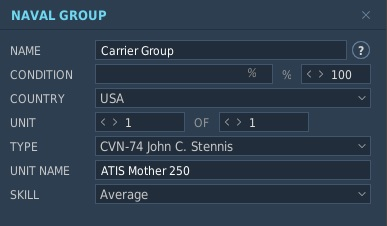
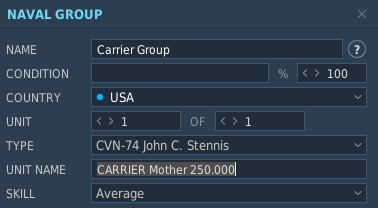
update carrier reports to require CARRIER prefix

diff --git a/crates/datis-module/src/mission.rs b/crates/datis-module/src/mission.rs
@@ -89,7 +89,7 @@ pub fn extract(mut lua: Lua<'static>) -> Result<Info, anyhow::Error> {
         let mut get_mission_description: LuaFunction<_> = get!(dcs, "getMissionDescription")?;
         let mission_situation: String = get_mission_description.call()?;
 
-        extract_frequencies(&mission_situation)
+        extract_atis_station_frequencies(&mission_situation)
     };
 
     // collect all airfields on the current loaded terrain
@@ -304,7 +304,7 @@ pub fn extract(mut lua: Lua<'static>) -> Result<Info, anyhow::Error> {
     // check all units if they represent and ATIS station and if so, combine them with
     // their corresponding airfield
     stations.extend(mission_units.iter().filter_map(|mission_unit| {
-        extract_station_config(&mission_unit.name).and_then(|config| {
+        extract_atis_station_config(&mission_unit.name).and_then(|config| {
             airfields.remove(&config.name).map(|mut airfield| {
                 airfield.traffic_freq = config.traffic;
                 airfield.position.x = mission_unit.x;
@@ -332,45 +332,78 @@ pub fn extract(mut lua: Lua<'static>) -> Result<Info, anyhow::Error> {
         }
     };
 
-    stations.extend(mission_units.iter().filter_map(|mission_unit| {
-        extract_station_config(&mission_unit.name).map(|config| Station {
-            name: config.name.clone(),
-            freq: config.atis,
-            tts: config.tts.unwrap_or_else(|| default_voice.clone()),
-            transmitter: Transmitter::Carrier(Carrier {
-                name: config.name,
-                unit_id: mission_unit.id,
-                unit_name: mission_unit.name.clone(),
-            }),
-            rpc: Some(rpc.clone()),
-        })
-    }));
-
-    stations.extend(mission_units.iter().filter_map(|mission_unit| {
-        extract_custom_broadcast_config(&mission_unit.name).map(|config| Station {
-            name: mission_unit.name.clone(),
-            freq: config.freq,
-            tts: config.tts.unwrap_or_else(|| default_voice.clone()),
-            transmitter: Transmitter::Custom(Custom {
-                unit_id: mission_unit.id,
-                unit_name: mission_unit.name.clone(),
-                message: config.message,
-            }),
-            rpc: Some(rpc.clone()),
-        })
-    }));
-
-    debug!("Valid ATIS Stations:");
-    for station in &stations {
-        debug!(
-            "  - {} (Freq: {}, Voice: {:?})",
-            station.name, station.freq, station.tts
-        );
-    }
-
     if stations.is_empty() {
-        warn!("No ATIS stations found ...");
+        info!("No ATIS stations found ...");
+    } else {
+        info!("ATIS Stations:");
+        for station in &stations {
+            info!(
+                "  - {} (Freq: {}, Voice: {:?})",
+                station.name, station.freq, station.tts
+            );
+        }
     }
+
+    let carriers = mission_units
+        .iter()
+        .filter_map(|mission_unit| {
+            extract_carrier_station_config(&mission_unit.name).map(|config| Station {
+                name: config.name.clone(),
+                freq: config.atis,
+                tts: config.tts.unwrap_or_else(|| default_voice.clone()),
+                transmitter: Transmitter::Carrier(Carrier {
+                    name: config.name,
+                    unit_id: mission_unit.id,
+                    unit_name: mission_unit.name.clone(),
+                }),
+                rpc: Some(rpc.clone()),
+            })
+        })
+        .collect::<Vec<_>>();
+
+    if carriers.is_empty() {
+        info!("No Carrier stations found ...");
+    } else {
+        info!("Carrier Stations:");
+        for station in &carriers {
+            info!(
+                "  - {} (Freq: {}, Voice: {:?})",
+                station.name, station.freq, station.tts
+            );
+        }
+    }
+
+    let broadcasts = mission_units
+        .iter()
+        .filter_map(|mission_unit| {
+            extract_custom_broadcast_config(&mission_unit.name).map(|config| Station {
+                name: mission_unit.name.clone(),
+                freq: config.freq,
+                tts: config.tts.unwrap_or_else(|| default_voice.clone()),
+                transmitter: Transmitter::Custom(Custom {
+                    unit_id: mission_unit.id,
+                    unit_name: mission_unit.name.clone(),
+                    message: config.message,
+                }),
+                rpc: Some(rpc.clone()),
+            })
+        })
+        .collect::<Vec<_>>();
+
+    if broadcasts.is_empty() {
+        info!("No custom Broadcast stations found ...");
+    } else {
+        info!("Broadcast Stations:");
+        for station in &broadcasts {
+            info!(
+                "  - {} (Freq: {}, Voice: {:?})",
+                station.name, station.freq, station.tts
+            );
+        }
+    }
+
+    stations.extend(carriers);
+    stations.extend(broadcasts);
 
     Ok(Info {
         stations,
@@ -405,7 +438,7 @@ struct StationConfig {
     tts: Option<TextToSpeechProvider>,
 }
 
-fn extract_frequencies(situation: &str) -> HashMap<String, StationConfig> {
+fn extract_atis_station_frequencies(situation: &str) -> HashMap<String, StationConfig> {
     // extract ATIS stations and frequencies
     let re = Regex::new(r"ATIS ([a-zA-Z- ]+) ([1-3]\d{2}(\.\d{1,3})?)").unwrap();
     let mut stations: HashMap<String, StationConfig> = re
@@ -441,7 +474,7 @@ fn extract_frequencies(situation: &str) -> HashMap<String, StationConfig> {
     stations
 }
 
-fn extract_station_config(config: &str) -> Option<StationConfig> {
+fn extract_atis_station_config(config: &str) -> Option<StationConfig> {
     let re = RegexBuilder::new(
         r"^ATIS ([a-zA-Z- ]+) ([1-3]\d{2}(\.\d{1,3})?)(,[ ]?TRAFFIC ([1-3]\d{2}(\.\d{1,3})?))?(,[ ]?VOICE ([a-zA-Z-:]+))?$",
     )
@@ -467,6 +500,30 @@ fn extract_station_config(config: &str) -> Option<StationConfig> {
     })
 }
 
+fn extract_carrier_station_config(config: &str) -> Option<StationConfig> {
+    let re = RegexBuilder::new(
+        r"^CARRIER ([a-zA-Z- ]+) ([1-3]\d{2}(\.\d{1,3})?)(,[ ]?VOICE ([a-zA-Z-:]+))?$",
+    )
+    .case_insensitive(true)
+    .build()
+    .unwrap();
+    re.captures(config).map(|caps| {
+        dbg!(&caps);
+        let name = caps.get(1).unwrap().as_str();
+        let atis_freq = caps.get(2).unwrap().as_str();
+        let atis_freq = (f64::from_str(atis_freq).unwrap() * 1_000_000.0) as u64;
+        let tts = caps
+            .get(5)
+            .and_then(|s| TextToSpeechProvider::from_str(s.as_str()).ok());
+        StationConfig {
+            name: name.to_string(),
+            atis: atis_freq,
+            traffic: None,
+            tts,
+        }
+    })
+}
+
 #[derive(Debug, PartialEq)]
 struct BroadcastConfig {
     freq: u64,
@@ -482,7 +539,6 @@ fn extract_custom_broadcast_config(config: &str) -> Option<BroadcastConfig> {
     .build()
     .unwrap();
     re.captures(config).map(|caps| {
-        dbg!(&caps);
         let freq = caps.get(1).unwrap().as_str();
         let freq = (f32::from_str(freq).unwrap() * 1_000_000.0) as u64;
         let tts = caps
@@ -500,14 +556,15 @@ fn extract_custom_broadcast_config(config: &str) -> Option<BroadcastConfig> {
 #[cfg(test)]
 mod test {
     use super::{
-        extract_custom_broadcast_config, extract_frequencies, extract_station_config,
-        BroadcastConfig, StationConfig,
+        extract_atis_station_config, extract_atis_station_frequencies,
+        extract_carrier_station_config, extract_custom_broadcast_config, BroadcastConfig,
+        StationConfig,
     };
     use datis_core::tts::{aws, gcloud, TextToSpeechProvider};
 
     #[test]
     fn test_mission_situation_extraction() {
-        let freqs = extract_frequencies(
+        let freqs = extract_atis_station_frequencies(
             r#"
             ATIS Mineralnye Vody 251.000
             ATIS Batumi 131.5
@@ -554,9 +611,9 @@ mod test {
     }
 
     #[test]
-    fn test_config_extraction() {
+    fn test_atis_config_extraction() {
         assert_eq!(
-            extract_station_config("ATIS Kutaisi 251"),
+            extract_atis_station_config("ATIS Kutaisi 251"),
             Some(StationConfig {
                 name: "Kutaisi".to_string(),
                 atis: 251_000_000,
@@ -566,7 +623,7 @@ mod test {
         );
 
         assert_eq!(
-            extract_station_config("ATIS Mineralnye Vody 251"),
+            extract_atis_station_config("ATIS Mineralnye Vody 251"),
             Some(StationConfig {
                 name: "Mineralnye Vody".to_string(),
                 atis: 251_000_000,
@@ -576,7 +633,7 @@ mod test {
         );
 
         assert_eq!(
-            extract_station_config("ATIS Senaki-Kolkhi 251"),
+            extract_atis_station_config("ATIS Senaki-Kolkhi 251"),
             Some(StationConfig {
                 name: "Senaki-Kolkhi".to_string(),
                 atis: 251_000_000,
@@ -586,7 +643,7 @@ mod test {
         );
 
         assert_eq!(
-            extract_station_config("ATIS Kutaisi 251.000, TRAFFIC 123.45"),
+            extract_atis_station_config("ATIS Kutaisi 251.000, TRAFFIC 123.45"),
             Some(StationConfig {
                 name: "Kutaisi".to_string(),
                 atis: 251_000_000,
@@ -596,7 +653,9 @@ mod test {
         );
 
         assert_eq!(
-            extract_station_config("ATIS Kutaisi 251.000, TRAFFIC 123.45, VOICE en-US-Standard-E"),
+            extract_atis_station_config(
+                "ATIS Kutaisi 251.000, TRAFFIC 123.45, VOICE en-US-Standard-E"
+            ),
             Some(StationConfig {
                 name: "Kutaisi".to_string(),
                 atis: 251_000_000,
@@ -608,7 +667,7 @@ mod test {
         );
 
         assert_eq!(
-            extract_station_config("ATIS Kutaisi 251.000, VOICE en-US-Standard-E"),
+            extract_atis_station_config("ATIS Kutaisi 251.000, VOICE en-US-Standard-E"),
             Some(StationConfig {
                 name: "Kutaisi".to_string(),
                 atis: 251_000_000,
@@ -620,7 +679,7 @@ mod test {
         );
 
         assert_eq!(
-            extract_station_config("ATIS Kutaisi 131.400"),
+            extract_atis_station_config("ATIS Kutaisi 131.400"),
             Some(StationConfig {
                 name: "Kutaisi".to_string(),
                 atis: 131_400_000,
@@ -631,9 +690,44 @@ mod test {
     }
 
     #[test]
+    fn test_carrier_config_extraction() {
+        assert_eq!(
+            extract_carrier_station_config("CARRIER Mother 251"),
+            Some(StationConfig {
+                name: "Mother".to_string(),
+                atis: 251_000_000,
+                traffic: None,
+                tts: None,
+            })
+        );
+
+        assert_eq!(
+            extract_carrier_station_config("CARRIER Mother 131.400"),
+            Some(StationConfig {
+                name: "Mother".to_string(),
+                atis: 131_400_000,
+                traffic: None,
+                tts: None,
+            })
+        );
+
+        assert_eq!(
+            extract_carrier_station_config("CARRIER Mother 251.000, VOICE en-US-Standard-E"),
+            Some(StationConfig {
+                name: "Mother".to_string(),
+                atis: 251_000_000,
+                traffic: None,
+                tts: Some(TextToSpeechProvider::GoogleCloud {
+                    voice: gcloud::VoiceKind::StandardE
+                }),
+            })
+        );
+    }
+
+    #[test]
     fn test_cloud_provider_prefix_extraction() {
         assert_eq!(
-            extract_station_config("ATIS Kutaisi 131.400, VOICE GC:en-US-Standard-D"),
+            extract_atis_station_config("ATIS Kutaisi 131.400, VOICE GC:en-US-Standard-D"),
             Some(StationConfig {
                 name: "Kutaisi".to_string(),
                 atis: 131_400_000,
@@ -645,7 +739,7 @@ mod test {
         );
 
         assert_eq!(
-            extract_station_config("ATIS Kutaisi 131.400, VOICE AWS:Brian"),
+            extract_atis_station_config("ATIS Kutaisi 131.400, VOICE AWS:Brian"),
             Some(StationConfig {
                 name: "Kutaisi".to_string(),
                 atis: 131_400_000,

diff --git a/crates/datis-core/src/rpc.rs b/crates/datis-core/src/rpc.rs
@@ -155,7 +155,7 @@ impl MissionRpc {
         match rx.await? {
             Response::Success(v) => Ok(Some(serde_json::from_value(v)?)),
             Response::Error(err) => {
-                error!("failed to get unit position: {}", err);
+                error!("failed to get position of unit {}: {}", name, err);
                 Ok(None)
             }
         }
@@ -172,7 +172,7 @@ impl MissionRpc {
         match rx.await? {
             Response::Success(v) => Ok(Some(serde_json::from_value(v)?)),
             Response::Error(err) => {
-                error!("failed to get unit heading: {}", err);
+                error!("failed to get heading of unit {}: {}", name, err);
                 Ok(None)
             }
         }

diff --git a/crates/datis-core/src/lib.rs b/crates/datis-core/src/lib.rs
@@ -287,7 +287,7 @@ async fn audio_broadcast(
             Some(report) => report,
             None => {
                 debug!(
-                    "No report available right for station {}. Trying again in 30 seconds ...",
+                    "No report available for station {}. Trying again in 30 seconds ...",
                     station.name
                 );
                 // postpone the next playback of the report by some seconds ...

diff --git a/README.md b/README.md
@@ -116,11 +116,10 @@ ATIS Kutaisi 251.000, TRAFFIC 252.000, VOICE WIN
 
 _I know, there is no such thing like a carrier ATIS in real life - though still a useful feature until we get the DCS carrier module._
 
-Setup like [Using Static Units](https://github.com/rkusa/DATIS#using-static-units), but instead of adding the `ATIS` name pattern to the name of a static unit, put it into the name of your carrier unt (not its group's name!) that should broadcast the report.
+Setup like [Using Static Units](https://github.com/rkusa/DATIS#using-static-units), but instead of adding the `ATIS` name pattern to the name of a static unit, put it into the name of your carrier unit (not its group's name!) that should broadcast the report and prefix it with `CARRIER`.
 
 ![Example](./docs/carrier.jpg)
 
-Known issue: It will broadcast on the unit's frequency and not on the frequency setup in the `ATIS` name pattern.
 
 ## Build
 

diff --git a/CHANGELOG.md b/CHANGELOG.md
@@ -8,6 +8,9 @@ and this project adheres to [Semantic Versioning](http://semver.org/spec/v2.0.0.
 ### Fixed
 - Fix WIN as default voice not working
 
+### Changed
+- **Breaking:** Carrier reports must now be prefixed with `CARRIER` instead of `ATIS`, eg.: `CARRIER Mother 250.000`
+
 ## [1.0.0-alpha.10] - 2020-05-01
 ### Added
 - Added default voice setting to DATIS settings
